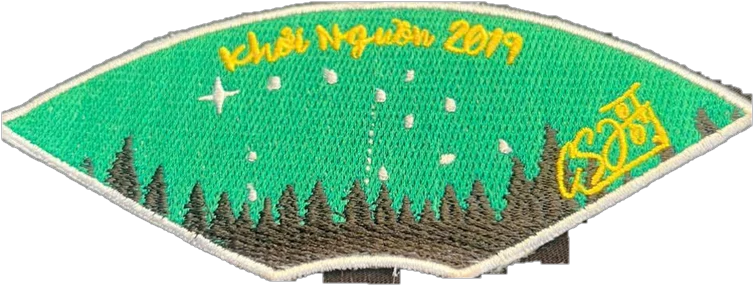
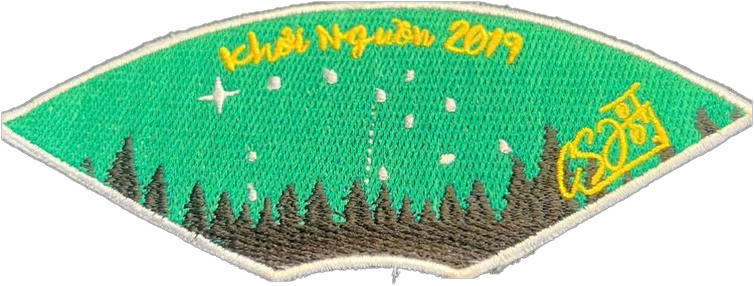
Cắt sát các miếng thêu, bỏ vệt vải đen thừa ở mép

diff --git a/scripts/patches.js b/scripts/patches.js
@@ -8,6 +8,8 @@ const root = path.resolve(__dirname, '..');
 const SRC = path.join(root, '..', 'Thêu');
 const MAXW = 760;
 const BRIGHT = 105; // ngưỡng sáng của viền miếng thêu
+const PEEL = 24; // số vòng gọt viền tối tối đa
+const PEEL_DARK = 120; // điểm ở mép tối hơn mức này bị coi là vải đen thừa
 const WALL = {};
 const OPEN = { 2: 13, 3: 13 };
 const ROI = { 2: [0.378, 0.688], 3: [0.374, 0.66] }; // miếng nằm sát mép ảnh: chỉ xét dải chứa miếng để vải tối bên dưới không bị coi là miếng
@@ -66,6 +68,18 @@ async function cut(n) {
   for (let i = 0; i < inside.length; i++) inside[i] = bg[i] ? 0 : 1;
   inside = erode(inside, w, h, WALL[n] || 3);
   if (OPEN[n]) inside = dilate(erode(inside, w, h, OPEN[n]), w, h, OPEN[n]); // mở: cắt các cầu nối mảnh sang vùng vải tối
+  // gọt viền: bóc dần các điểm tối ở mép ngoài cho tới khi gặp viền thêu sáng, để không còn vệt vải đen lưa thưa
+  for (let it = 0; it < PEEL; it++) {
+    const kill = [];
+    for (let y = 1; y < h - 1; y++) for (let x = 1; x < w - 1; x++) {
+      const i = y * w + x;
+      if (!inside[i]) continue;
+      if (inside[i - 1] && inside[i + 1] && inside[i - w] && inside[i + w]) continue;
+      if (Math.max(data[i * 4], data[i * 4 + 1], data[i * 4 + 2]) < PEEL_DARK) kill.push(i);
+    }
+    if (!kill.length) break;
+    for (const i of kill) inside[i] = 0;
+  }
   // giữ lại mảng lớn nhất (bỏ nhiễu rời)
   const lab = new Int32Array(w * h); const sizes = [0]; let L = 0;
   for (let s = 0; s < w * h; s++) {
